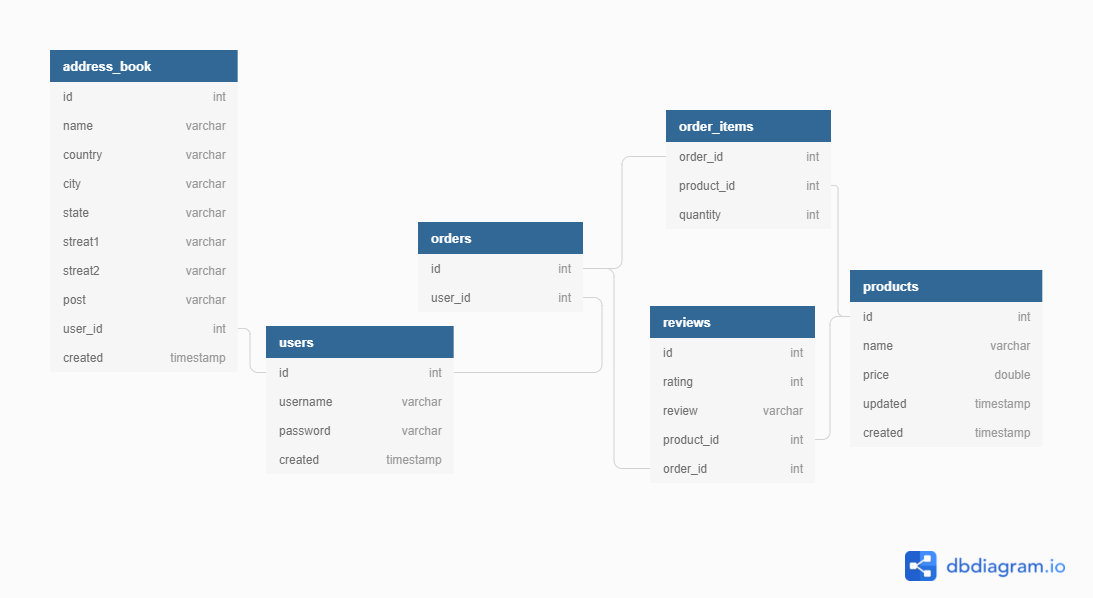
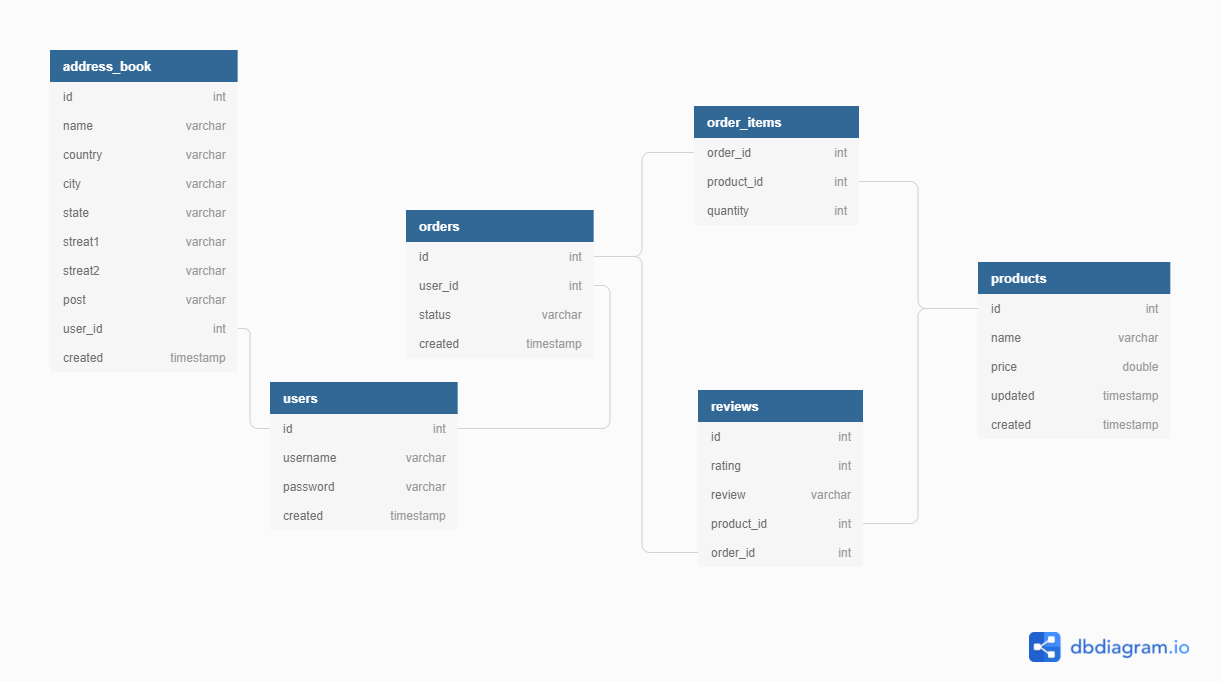
Create Order entity and repository

diff --git a/src/main/java/shopping/db/repository/OrderRepository.java b/src/main/java/shopping/db/repository/OrderRepository.java
@@ -1,26 +1,26 @@
 package shopping.db.repository;
 
+import shopping.db.entity.OrderEntity;
 import shopping.db.entity.ProductEntity;
 import shopping.exception.ShoppingException;
 
 import java.sql.*;
-import java.time.Instant;
 import java.util.ArrayList;
 import java.util.List;
 import java.util.Optional;
 
-public class ProductRepository implements Repository<ProductEntity>{
+public class OrderRepository implements Repository<OrderEntity>{
     private final Connection connection;
 
-    public ProductRepository(Connection connection) {
+    public OrderRepository(Connection connection) {
         this.connection = connection;
     }
 
 
     @Override
-    public List<ProductEntity> list() {
+    public List<OrderEntity> list() {
         try (Statement stmt = connection.createStatement()) {
-            String sql = "SELECT * FROM products";
+            String sql = "SELECT * FROM orders";
             try (ResultSet rs = stmt.executeQuery(sql)) {
                 return list(rs);
             }
@@ -29,11 +29,11 @@ public class ProductRepository implements Repository<ProductEntity>{
         }
     }
 
-    private List<ProductEntity> list(ResultSet resultSet) {
-        List<ProductEntity> list = new ArrayList<>();
+    private List<OrderEntity> list(ResultSet resultSet) {
+        List<OrderEntity> list = new ArrayList<>();
         try {
             while (resultSet.next()) {
-                list.add(toProductEntity(resultSet));
+                list.add(toOrderEntity(resultSet));
             }
             return list;
         } catch (SQLException e) {
@@ -42,13 +42,13 @@ public class ProductRepository implements Repository<ProductEntity>{
     }
 
     @Override
-    public Optional<ProductEntity> findById(int id) {
-        String sql = "SELECT * FROM products WHERE id=?";
+    public Optional<OrderEntity> findById(int id) {
+        String sql = "SELECT * FROM orders WHERE id=?";
         try (PreparedStatement stmt = connection.prepareStatement(sql)) {
             stmt.setInt(1, id);
             try (ResultSet rs = stmt.executeQuery()) {
                 if (rs.next()){
-                    return Optional.of(toProductEntity(rs));
+                    return Optional.of(toOrderEntity(rs));
                 }
                 return Optional.empty();
             }
@@ -58,17 +58,15 @@ public class ProductRepository implements Repository<ProductEntity>{
     }
 
     @Override
-    public void save(ProductEntity product) {
+    public void save(OrderEntity order) {
         String sql =
-                product.getId() == null
-                ?  "INSERT INTO products (name, price) VALUES (?, ?)"
-                : "UPDATE products SET name=?, price=?, updated=? WHERE id=?";
+                order.getId() == null
+                ?  "INSERT INTO orders (status) VALUES (?)"
+                : "UPDATE orders SET status=? WHERE id=?";
         try (PreparedStatement stmt = connection.prepareStatement(sql)) {
-            stmt.setString(1, product.getName());
-            stmt.setDouble(2, product.getPrice());
-            if (product.getId() != null){
-                stmt.setTimestamp(3, Timestamp.from(Instant.now()));
-                stmt.setInt(4, product.getId());
+            stmt.setString(1, order.getStatus());
+            if (order.getId() != null){
+                stmt.setInt(2, order.getId());
             }
             stmt.execute();
         } catch (SQLException e) {
@@ -78,7 +76,7 @@ public class ProductRepository implements Repository<ProductEntity>{
 
     @Override
     public boolean delete(int id) {
-        String sql = "DELETE FROM products WHERE id=?";
+        String sql = "DELETE FROM orders WHERE id=?";
         try (PreparedStatement stmt = connection.prepareStatement(sql)) {
             stmt.setInt(1, id);
             return stmt.executeUpdate() == 1;
@@ -87,17 +85,16 @@ public class ProductRepository implements Repository<ProductEntity>{
         }
     }
 
-    private static ProductEntity toProductEntity(ResultSet resultSet) {
+    private static OrderEntity toOrderEntity(ResultSet resultSet) {
         try {
-            ProductEntity entity = new ProductEntity();
+            OrderEntity entity = new OrderEntity();
             entity.setId(resultSet.getInt("id"));
-            entity.setName(resultSet.getString("name"));
-            entity.setPrice(resultSet.getDouble("price"));
-            entity.setUpdated(resultSet.getTimestamp("updated"));
+            entity.setStatus(resultSet.getString("status"));
             entity.setCreated(resultSet.getTimestamp("created"));
             return entity;
         } catch (SQLException e) {
             throw new ShoppingException(e);
         }
     }
+
 }

diff --git a/src/main/java/shopping/Main.java b/src/main/java/shopping/Main.java
@@ -1,7 +1,9 @@
 package shopping;
 
 
+import shopping.db.entity.OrderEntity;
 import shopping.db.entity.ProductEntity;
+import shopping.db.repository.OrderRepository;
 import shopping.db.repository.ProductRepository;
 import shopping.exception.ShoppingException;
 
@@ -16,6 +18,7 @@ public class Main implements AutoCloseable {
 
     private final Connection connection;
     private final ProductRepository productRepository;
+    private final OrderRepository orderRepository;
 
     public Main() {
         Properties databaseProperties = loadDatabaseProperties();
@@ -24,15 +27,19 @@ public class Main implements AutoCloseable {
         } catch (SQLException e) {
             throw new ShoppingException(e);
         }
+        this.orderRepository = new OrderRepository(connection);
         this.productRepository = new ProductRepository(connection);
     }
 
-    public void run(){
-        productRepository.create("bla");
+    public void runProducts(){
+        ProductEntity newEntity = new ProductEntity();
+        newEntity.setName("bla bla");
+        newEntity.setPrice(9.99);
+        productRepository.save(newEntity);
         System.out.println("________________________________");
         ProductEntity entity = productRepository.getById(6);
         entity.setName("new name");
-        productRepository.update(entity);
+        productRepository.save(entity);
         System.out.println("________________________________");
         System.out.println(productRepository.delete(14));
         productRepository.list().forEach(System.out::println);
@@ -42,8 +49,19 @@ public class Main implements AutoCloseable {
         System.out.println("________________________________");
     }
 
+    public void runOrders() {
+        System.out.println("==================================");
+        System.out.println("==================================");
+        OrderEntity entity = new OrderEntity();
+        orderRepository.save(entity);
+        orderRepository.list().forEach(System.out::println);
+    }
+
     public static void main(String[] args){
-        new Main().run();
+        try(Main m = new Main()){
+            m.runProducts();
+            m.runOrders();
+        }
     }
 
     private static Properties loadDatabaseProperties(){

diff --git a/src/main/java/shopping/db/entity/ProductEntity.java b/src/main/java/shopping/db/entity/ProductEntity.java
@@ -2,17 +2,20 @@ package shopping.db.entity;
 
 import java.sql.Timestamp;
 
-public class ProductEntity {
+public class ProductEntity implements Entity{
 
-    private int id;
+    private Integer id;
     private String name;
+    private double price;
+    private Timestamp updated;
     private Timestamp created;
 
-    public int getId() {
+    @Override
+    public Integer getId() {
         return id;
     }
 
-    public void setId(int id) {
+    public void setId(Integer id) {
         this.id = id;
     }
 
@@ -24,6 +27,22 @@ public class ProductEntity {
         this.name = name;
     }
 
+    public double getPrice() {
+        return price;
+    }
+
+    public void setPrice(double price) {
+        this.price = price;
+    }
+
+    public Timestamp getUpdated() {
+        return updated;
+    }
+
+    public void setUpdated(Timestamp updated) {
+        this.updated = updated;
+    }
+
     public Timestamp getCreated() {
         return created;
     }
@@ -32,11 +51,14 @@ public class ProductEntity {
         this.created = created;
     }
 
+
     @Override
     public String toString() {
         return "ProductEntity{" +
                 "id=" + id +
                 ", name='" + name + '\'' +
+                ", price=" + price +
+                ", updated=" + updated +
                 ", created=" + created +
                 '}';
     }

diff --git a/src/main/java/shopping/db/entity/OrderEntity.java b/src/main/java/shopping/db/entity/OrderEntity.java
@@ -1,0 +1,43 @@
+package shopping.db.entity;
+
+import java.sql.Timestamp;
+
+public class OrderEntity implements Entity{
+
+    private Integer id;
+    private String status = "NEW";
+    private Timestamp created;
+
+    public Integer getId() {
+        return id;
+    }
+
+    public void setId(Integer id) {
+        this.id = id;
+    }
+
+    public String getStatus() {
+        return status;
+    }
+
+    public void setStatus(String status) {
+        this.status = status;
+    }
+
+    public Timestamp getCreated() {
+        return created;
+    }
+
+    public void setCreated(Timestamp created) {
+        this.created = created;
+    }
+
+    @Override
+    public String toString() {
+        return "OrderEntity{" +
+                "id=" + id +
+                ", status='" + status + '\'' +
+                ", created=" + created +
+                '}';
+    }
+}

diff --git a/src/main/java/shopping/db/repository/Repository.java b/src/main/java/shopping/db/repository/Repository.java
@@ -1,0 +1,26 @@
+package shopping.db.repository;
+
+import shopping.db.entity.Entity;
+
+import java.util.List;
+import java.util.Optional;
+
+public interface Repository<T extends Entity> {
+
+    void save(T entity);
+
+    List<T> list();
+
+    default T getById(int id) {
+        return  findById(id).orElse(null);
+    }
+
+    Optional<T> findById(int id);
+
+
+    boolean delete(int id);
+
+    default boolean delete(T entity){
+        return delete(entity.getId());
+    }
+}

diff --git a/src/main/java/shopping/db/entity/Entity.java b/src/main/java/shopping/db/entity/Entity.java
@@ -1,0 +1,6 @@
+package shopping.db.entity;
+
+public interface Entity {
+
+    Integer getId();
+}
